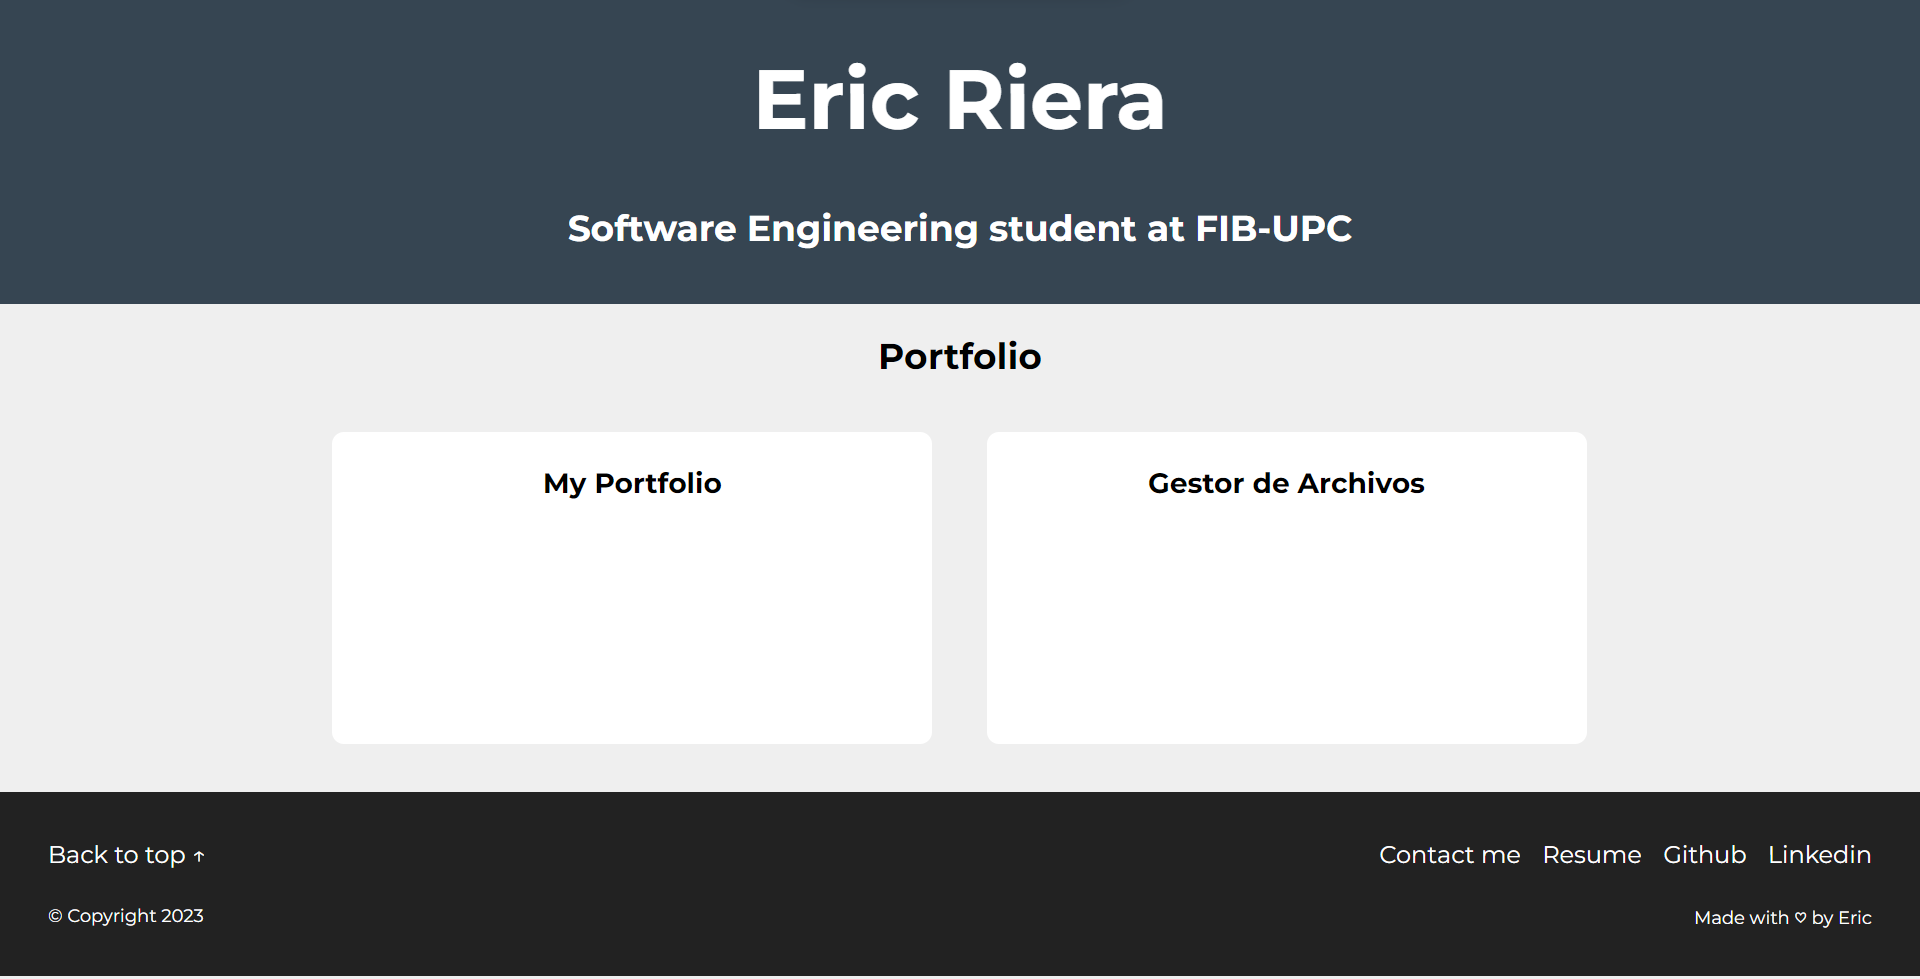
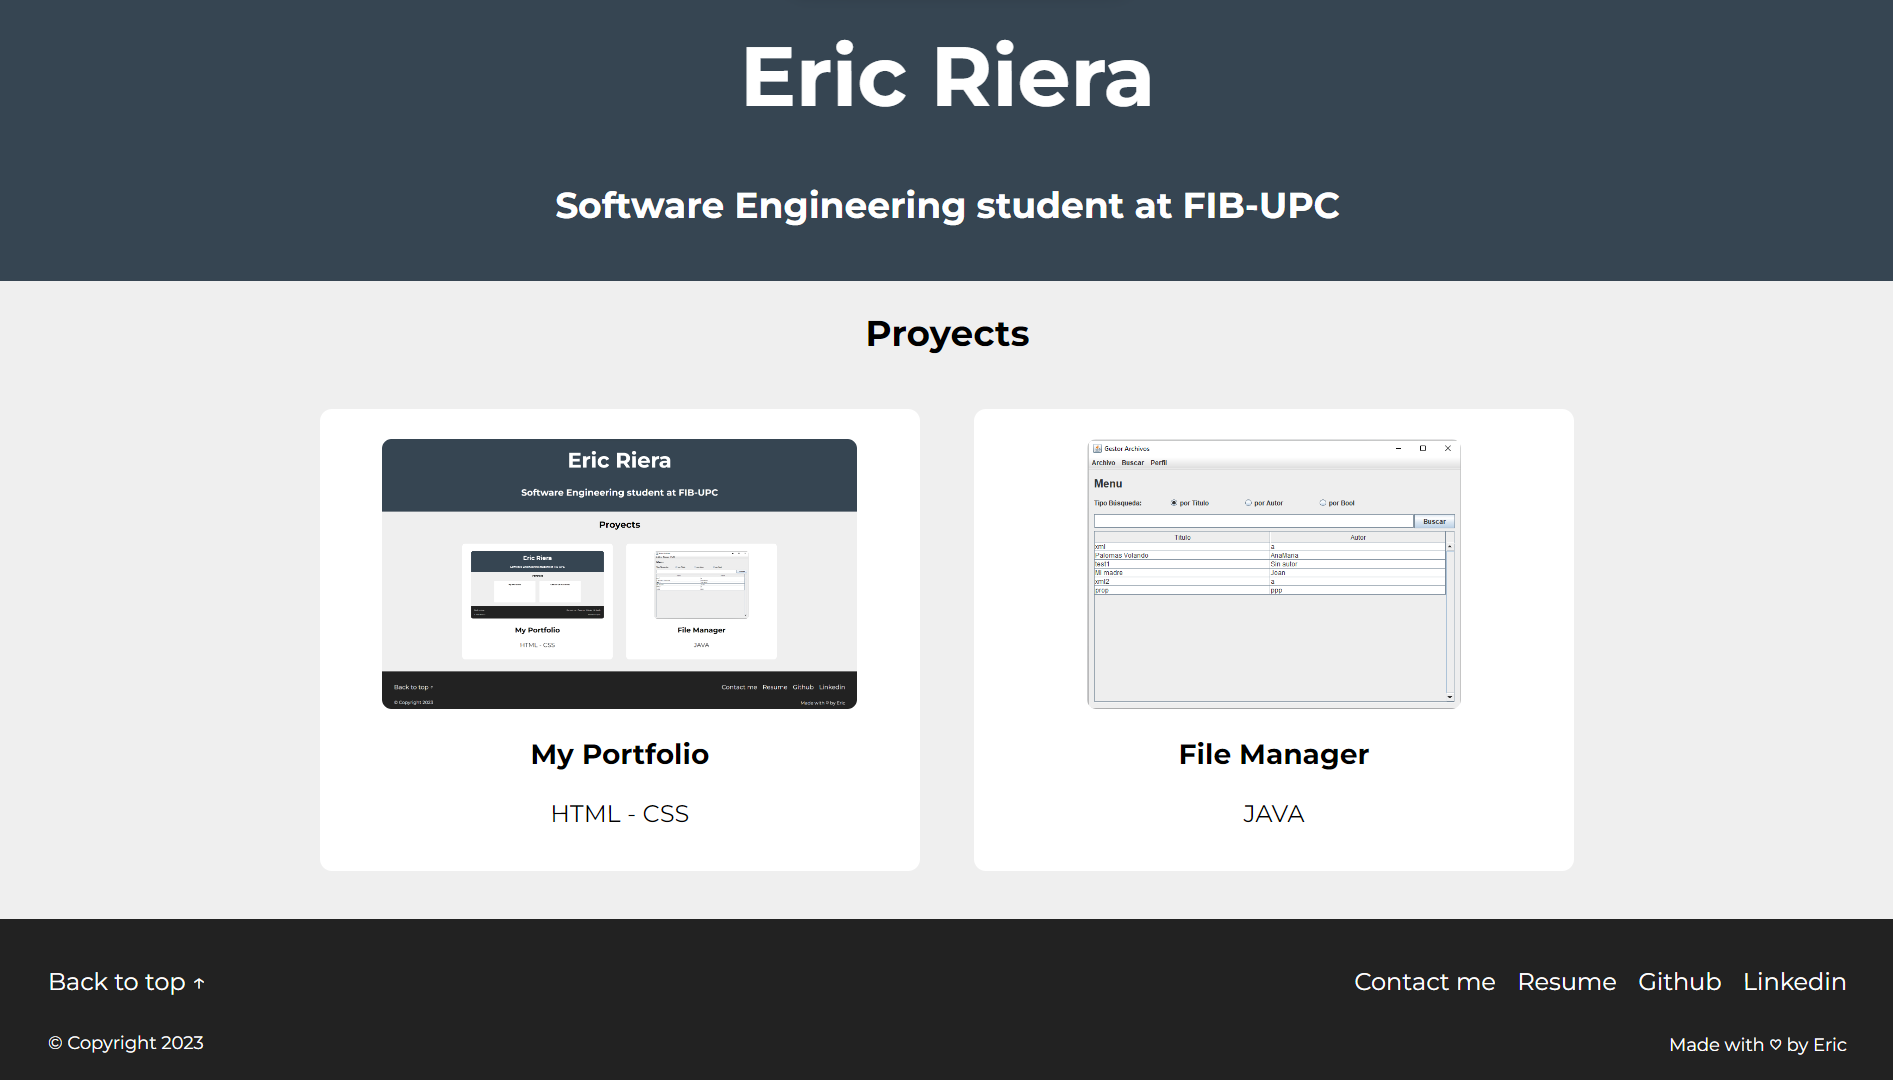
Responsive fixed

diff --git a/style.css b/style.css
@@ -29,7 +29,7 @@ header {
     margin: 1rem auto;
 }
 
-@media only screen and (min-width: 400px) {
+@media only screen and (min-width: 600px) {
     #proyects {
         max-width: 400px;
         margin: 1rem auto;
@@ -50,11 +50,11 @@ section h2 {
 
 .targeta {
     display: inline-block;
-    width: 400px;
-    height: 300px;
+    width: 90%;
+    height: width*3/4;
     background-color: white;
     color: black;
-    margin: 1rem 1rem;
+    margin: 0.5rem 0.5rem;
     border-radius: 0.5rem;
     padding: 0.25rem 0;
     cursor: pointer;
@@ -62,8 +62,33 @@ section h2 {
     text-decoration: none;
 }
 
+@media only screen and (min-width: 450px) {
+    .targeta {
+        display: inline-block;
+        width: 400px;
+        height: 300px;
+        background-color: white;
+        color: black;
+        margin: 1rem 1rem;
+        border-radius: 0.5rem;
+        padding: 0.25rem 0;
+        cursor: pointer;
+        transition: box-shadow 0.3s ease;
+        text-decoration: none;
+    }
+}
+
 .targeta:hover {
     box-shadow: 0 0.1rem 0.4rem rgba(0,0,0,0.3);
+}
+
+@media only screen and (min-width: 400px) {
+    .targeta img {
+        height: 170px;
+        display: block;
+        margin: 1rem auto 0rem;
+        border-radius: 0.4rem;
+    }
 }
 
 .targeta img {
